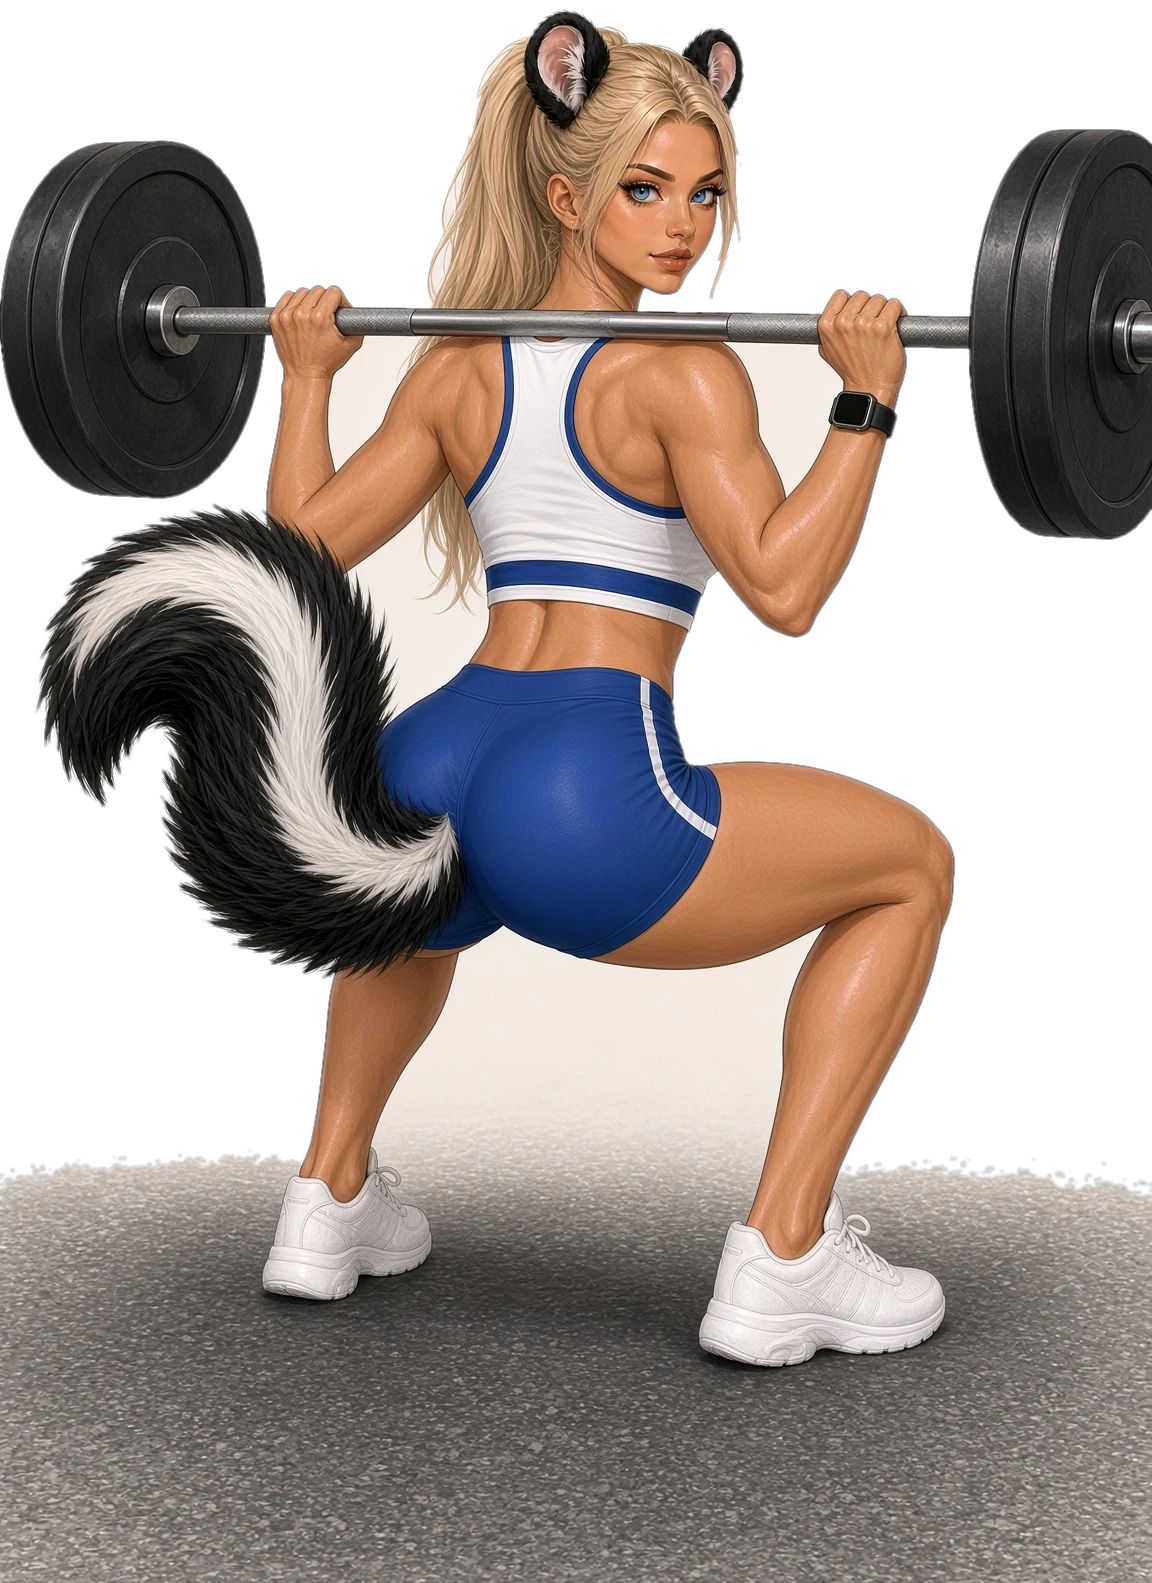
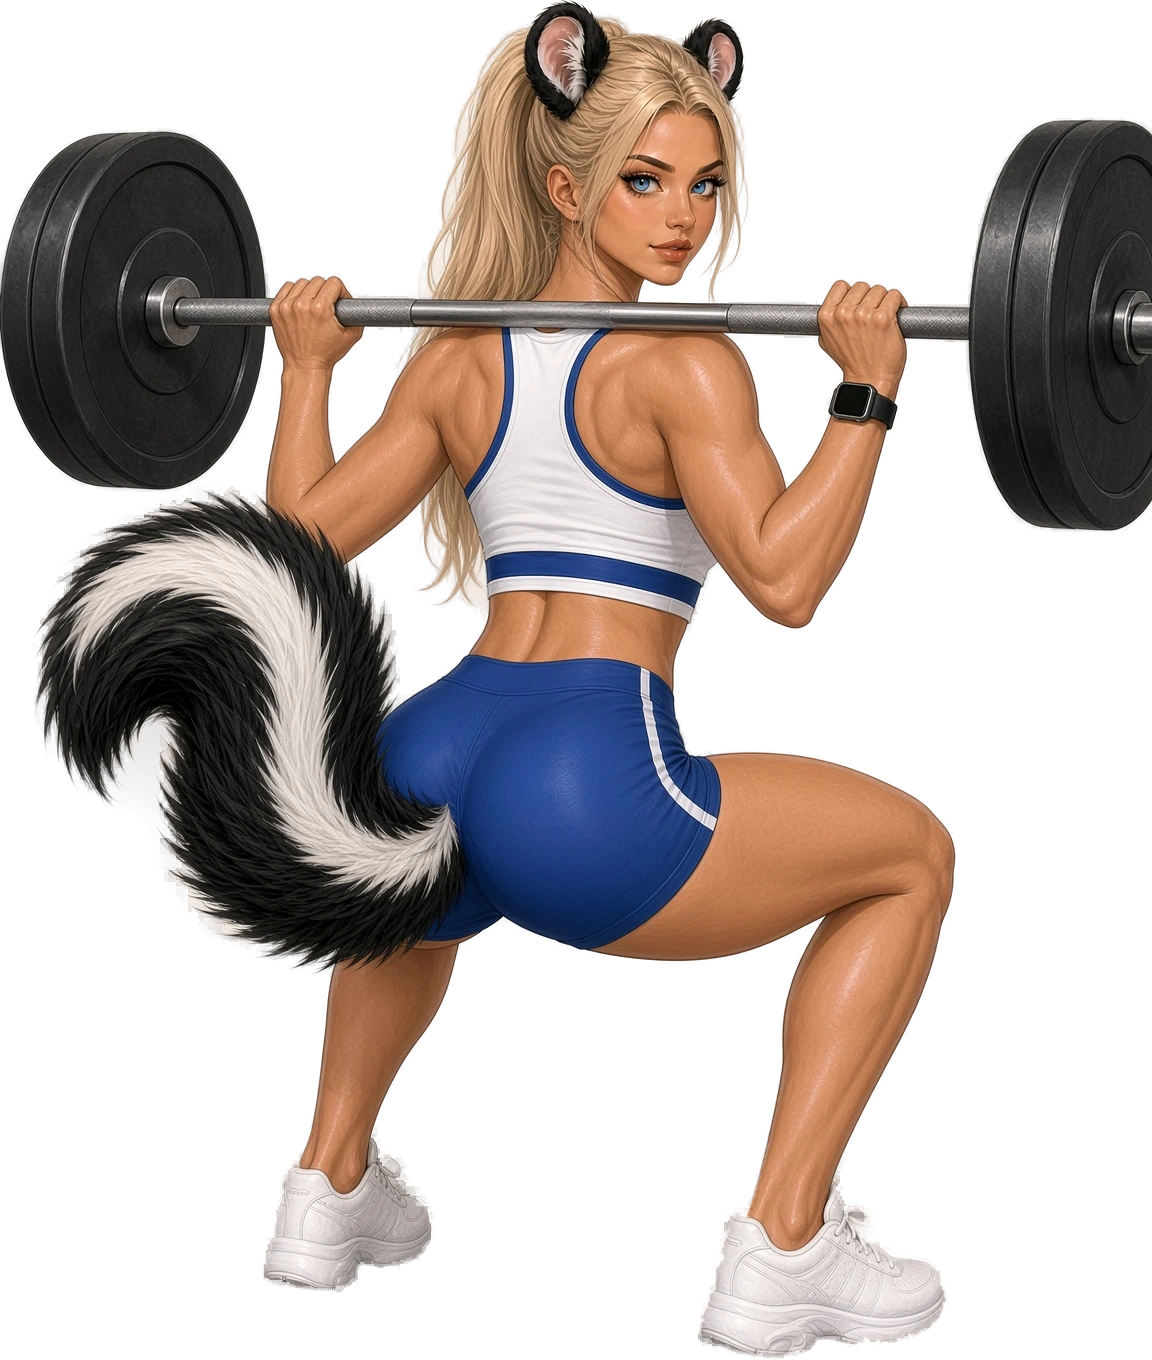
Ronnie squat/yoga: clean rembg cutouts, drop the edge-fade mask

diff --git a/src/components/companion/CharacterPortrait.tsx b/src/components/companion/CharacterPortrait.tsx
@@ -4,7 +4,6 @@ import { portraitSrc, victoriaLingerieOn } from "@/lib/companion/portraits";
 import { useCompanion } from "@/lib/companion/store";
 import { MAX_SCENE_GIRLS, sceneLayout, sceneOrder, sceneOthers } from "@/lib/companion/scene";
 import type { GirlId } from "@/lib/companion/types";
-import { ronniePose } from "@/lib/companion/ronnie-art";
 import { ronnieInstructing } from "@/lib/companion/yoga";
 import { cn } from "@/lib/utils";
 
@@ -33,8 +32,6 @@ function GirlSprite({ girl, count, extra }: { girl: GirlId; count: number; extra
   const lingerie = girl === "victoria" && victoriaLingerieOn(location, intimate);
   const instructing = useCompanion((s) => girl === "ronnie" && ronnieInstructing(s));
   const src = portraitSrc(outfit, expression, sprayKind, girl, lingerie, location, instructing);
-  // The squat and yoga poses keep a bit of floor from the painting. Fade the edges so it sits in the scene.
-  const pose = girl === "ronnie" && sprayKind === "none" ? ronniePose(location, expression, instructing) : null;
   const gas = mine ? pulse.kind === "fart" || pulse.kind === "spray" : joinedFart || joinedSpray;
   const stink = gas && stinkUntil !== pulse.key;
   const fullSpray = mine
@@ -85,11 +82,6 @@ function GirlSprite({ girl, count, extra }: { girl: GirlId; count: number; extra
       <img
         key={src}
         src={src}
-        style={
-          pose
-            ? { maskImage: "radial-gradient(ellipse 70% 75% at 50% 50%, black 70%, transparent 100%)", WebkitMaskImage: "radial-gradient(ellipse 70% 75% at 50% 50%, black 70%, transparent 100%)" }
-            : undefined
-        }
         alt={girl === "victoria" ? "Victoria" : girl === "ronnie" ? "Veronica" : "Isabella"}
         className={cn(
           "w-auto object-contain object-bottom drop-shadow-[0_18px_40px_rgba(0,0,0,0.45)]",

diff --git a/scripts/ronnie_poses_rembg.py b/scripts/ronnie_poses_rembg.py
@@ -1,0 +1,17 @@
+"""Clean cutouts for Ronnie's squat and yoga poses with rembg (isnet-general-use + alpha matting).
+Run from the repo root in a venv with: pip install "rembg[cpu]" pillow
+Usage: python scripts/ronnie_poses_rembg.py isnet-general-use
+"""
+import sys
+from PIL import Image
+from rembg import remove, new_session
+sess = new_session(sys.argv[1])
+for name in ["squat", "yoga"]:
+    src = Image.open(f"public/art/ronnie/athletic/{name}.jpg").convert("RGB")
+    out = remove(src, session=sess, alpha_matting=True, alpha_matting_foreground_threshold=240, alpha_matting_background_threshold=15, alpha_matting_erode_size=8)
+    bbox = out.getchannel("A").point(lambda a: 255 if a > 8 else 0).getbbox()
+    out = out.crop(bbox)
+    if out.height > 1650: out = out.resize((round(out.width*1650/out.height), 1650), Image.LANCZOS)
+    out.save(f"/tmp/{name}_{sys.argv[1]}.webp", quality=92, method=6)
+    g = Image.new("RGBA", out.size, (128,128,128,255)); g.alpha_composite(out); g.convert("RGB").resize((out.width//3, out.height//3)).save(f"/tmp/{name}_{sys.argv[1]}_gray.png")
+print("done")
